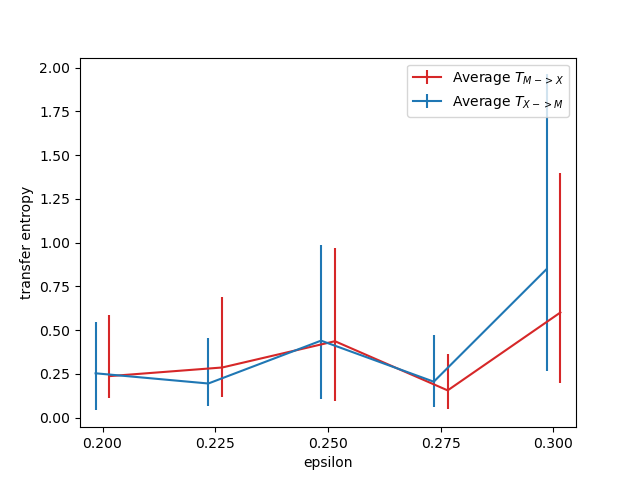
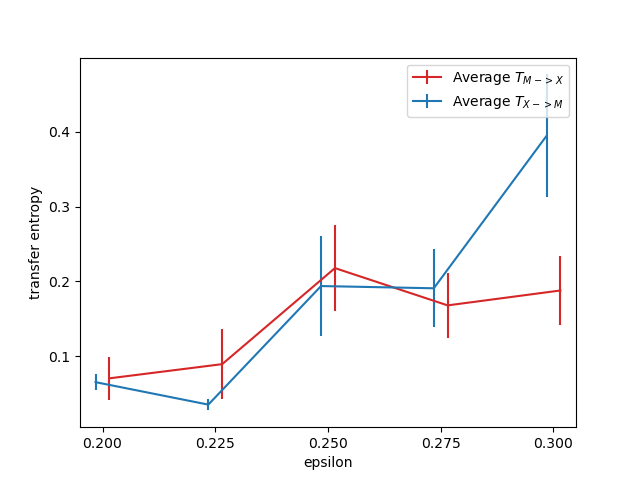
Fixed error bars and generated new images

diff --git a/part2/plotMI.py b/part2/plotMI.py
@@ -9,6 +9,7 @@ from matplotlib.transforms import ScaledTranslation
 
 def get_error(df):
     stats = pd.DataFrame([df.mean(axis=1), df.std(axis=1), df.count(axis=1)]).T
+    print(stats)
     stats.columns = ["mean", "std", "count"]
     ci95_hi = list()
     ci95_lo = list()
@@ -16,7 +17,7 @@ def get_error(df):
         m, s, c = stats.loc[i]
         ci95_hi.append(m + 2.045*s/math.sqrt(c))
         ci95_lo.append(m - 2.045*s/math.sqrt(c))
-    return ci95_hi, ci95_lo
+    return np.array(ci95_hi), np.array(ci95_lo)
 
 def main():
     df_MI = pd.read_csv("MI_data.csv", sep=" ", header=None)
@@ -27,16 +28,13 @@ def main():
     ax.set_xlabel("epsilon")
     ax.set_ylabel("mutual information")
 
-    trans1 = ax.transData + ScaledTranslation(5/72, 0, fig.dpi_scale_trans)
-    trans2 = ax.transData + ScaledTranslation(-5/72, 0, fig.dpi_scale_trans)
-
+    y_vals = df_MI.mean(axis=1)
     line1 = ax.errorbar(
             np.linspace(0.2, 0.3, 5),
-            df_MI.mean(axis=1), 
-            (MI_error_low, MI_error_high),
+            y_vals,
+            yerr=(y_vals - MI_error_low, MI_error_high - y_vals),
             color="tab:red",
             ecolor="tab:red",
-            transform=trans1,
             label="Mutual Information"
         )
     ax.legend(handles=[line1])

diff --git a/part2/plotTE.py b/part2/plotTE.py
@@ -16,7 +16,7 @@ def get_error(df):
         m, s, c = stats.loc[i]
         ci95_hi.append(m + 2.045*s/math.sqrt(c))
         ci95_lo.append(m - 2.045*s/math.sqrt(c))
-    return ci95_hi, ci95_lo
+    return np.array(ci95_hi), np.array(ci95_lo)
 
 def main():
     df_TD = pd.read_csv("TD_data.csv", sep=" ", header=None)
@@ -32,19 +32,22 @@ def main():
     trans1 = ax.transData + ScaledTranslation(5/72, 0, fig.dpi_scale_trans)
     trans2 = ax.transData + ScaledTranslation(-5/72, 0, fig.dpi_scale_trans)
 
+    y_vals = df_TD.mean(axis=1)
     line1 = ax.errorbar(
             np.linspace(0.2, 0.3, 5),
-            df_TD.mean(axis=1), 
-            (TD_error_low, TD_error_high),
+            y_vals,
+            (y_vals - TD_error_low, TD_error_high - y_vals),
             color="tab:red",
             ecolor="tab:red",
             transform=trans1,
             label="Average $T_{M->X}$"
         )
+
+    y_vals = df_BU.mean(axis=1)
     line2 = ax.errorbar(
             np.linspace(0.2, 0.3, 5),
-            df_BU.mean(axis=1), 
-            (BU_error_low, BU_error_high),
+            y_vals,
+            (y_vals - BU_error_low, BU_error_high - y_vals),
             color="tab:blue",
             ecolor="tab:blue",
             transform=trans2,

diff --git a/part2/TEcalc.py b/part2/TEcalc.py
@@ -11,7 +11,10 @@ def get_data(filename):
     return np.loadtxt(filename, delimiter=",", dtype=int)
 
 def calc_TE(v1, v2, k, teCalc):
-    teCalc.initialise(max(v1.max(), v2.max())+1, k, 1, 1, 1, 1)
+    num_bins = 25
+    v1 = np.digitize(v1, np.linspace(1, v1.max(), num_bins))
+    v2 = np.digitize(v2, np.linspace(1, v2.max(), num_bins))
+    teCalc.initialise(num_bins + 1, k, 1, 1, 1, 1)
     twoDTimeSeriesPython = list()
     twoDTimeSeriesPython.append(v1.tolist())
     twoDTimeSeriesPython.append(v2.tolist())
@@ -25,7 +28,7 @@ def get_te(eps, mpop, data, teCalc):
     for i in range(3):
         maxTD = 0
         maxBU = 0
-        for k in range(2): #4): # different from deterding & wright
+        for k in range(4): #4): # different from deterding & wright
             # column-wise comparison
             TD_TE = calc_TE(data[:,0], data[:,1+i], k+1, teCalc)
             BU_TE = calc_TE(data[:,1+i], data[:,0], k+1, teCalc)

diff --git a/part2/MIcalc.py b/part2/MIcalc.py
@@ -12,6 +12,9 @@ def get_data(filename):
 
 def calc_MI(v1, v2, miCalc):
     miCalc.initialise()
+    #num_bins = 25
+    #v1 = np.digitize(v1, np.linspace(1, v1.max(), num_bins))
+    #v2 = np.digitize(v2, np.linspace(1, v2.max(), num_bins))
     sourceNumpyJArray = jpype.JArray(jpype.JInt, 1)(v1.tolist())
     destNumpyJArray = jpype.JArray(jpype.JInt, 1)(v2.tolist())
     miCalc.addObservations(sourceNumpyJArray, destNumpyJArray)
